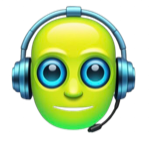
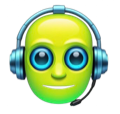
feat(puke-box): update images and layout
- Replace jukebox JPG with transparent PNG background version
- Scale up jukebox image behind controls (170%)
- Resize homepage icon to 120px
- Adjust overlay zone positions to center on jukebox
- Add spacing below title to prevent image overlap

diff --git a/puke-box.html b/puke-box.html
@@ -91,7 +91,7 @@
         .jukebox-wrapper {
             display: flex;
             justify-content: center;
-            padding: 10px 0 20px;
+            padding: 140px 0 20px;
             position: relative;
         }
         .jukebox-container {
@@ -100,10 +100,14 @@
             aspect-ratio: 1;
         }
         .jukebox-container img {
-            width: 100%;
-            height: 100%;
+            width: 170%;
+            height: 170%;
             object-fit: contain;
             display: block;
+            position: absolute;
+            top: -35%;
+            left: -35%;
+            pointer-events: none;
             filter: drop-shadow(0 0 30px rgba(0, 150, 255, 0.4))
                     drop-shadow(0 0 60px rgba(255, 0, 128, 0.2));
         }
@@ -121,7 +125,7 @@
         /* Marquee zone — the amber display at top of jukebox */
         #marquee-zone {
             top: 24%;
-            left: 42%;
+            left: 40.25%;
             width: 37%;
             height: 9%;
             /* amber glow */
@@ -141,7 +145,7 @@
         /* Flipper zone — the lattice/diamond grid area */
         #flipper-zone {
             top: 42%;
-            left: 38%;
+            left: 36.25%;
             width: 44%;
             height: 21%;
             background: rgba(10, 5, 20, 0.88);
@@ -220,7 +224,7 @@
         /* Controls zone — bottom display + buttons */
         #controls-zone {
             top: 64%;
-            left: 40%;
+            left: 38.25%;
             width: 40%;
             height: 10%;
             display: flex;
@@ -401,7 +405,7 @@
 <!-- Jukebox -->
 <div class="jukebox-wrapper">
     <div class="jukebox-container">
-        <img src="img/puke-box.jpg" alt="THE PUKE BOX">
+        <img src="img/puke-box.png" alt="THE PUKE BOX">
 
         <!-- Overlay: amber marquee display -->
         <div class="overlay-zone" id="marquee-zone">
